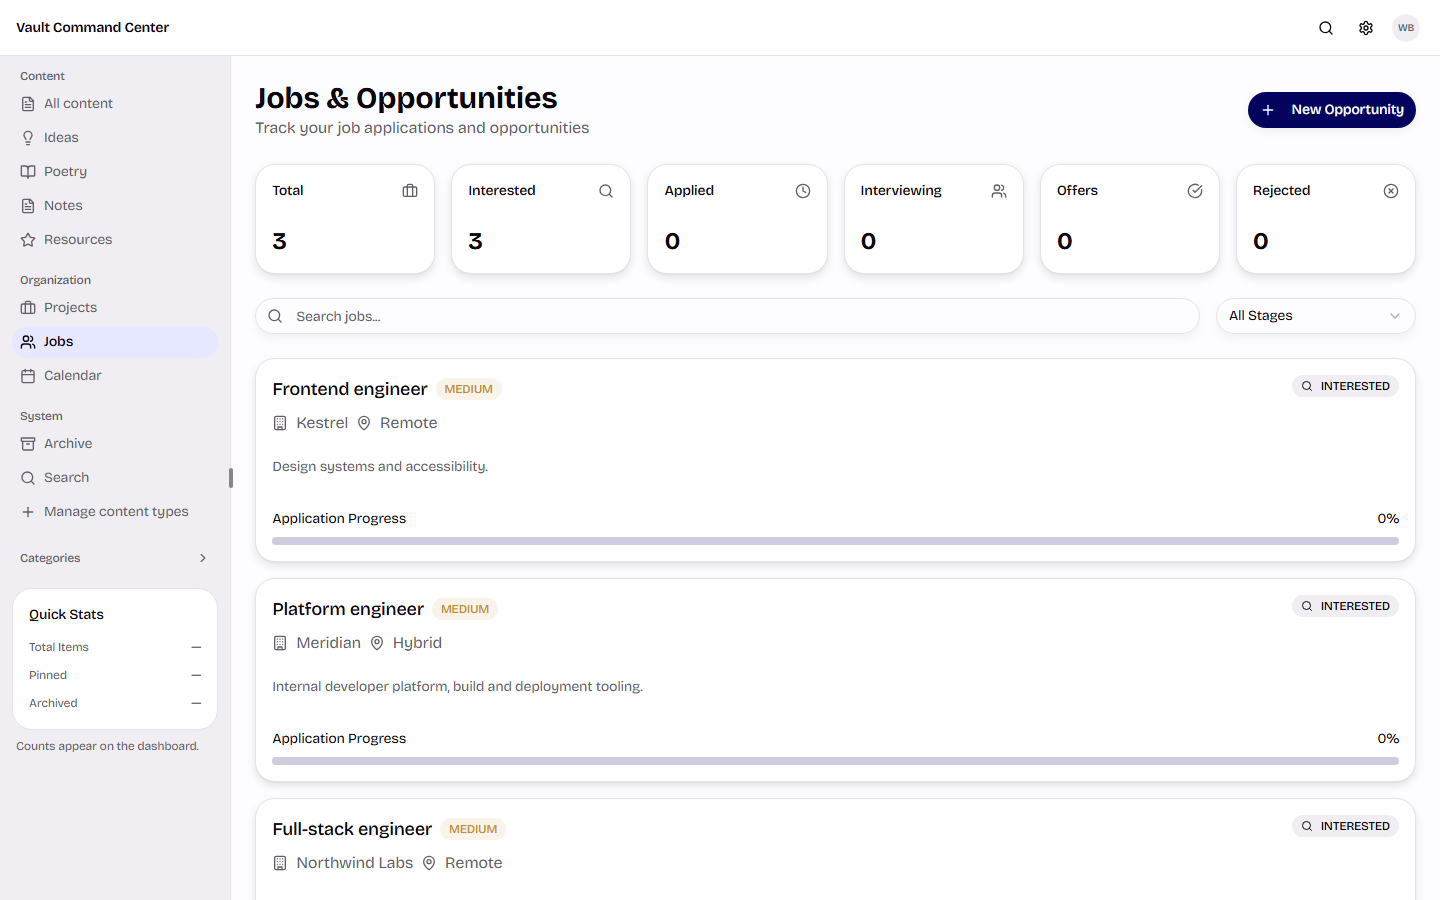
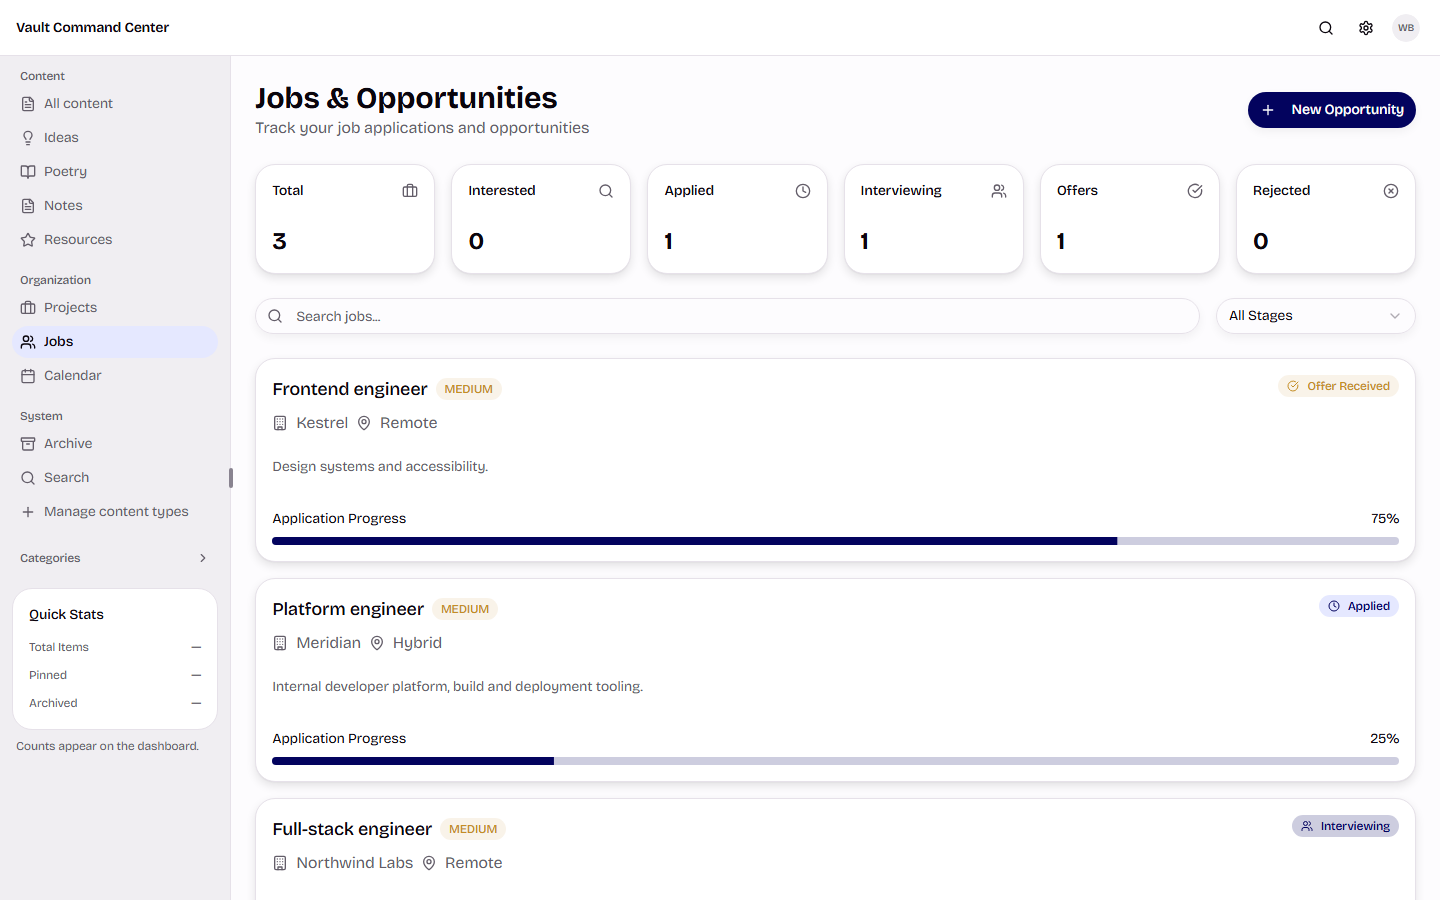
fix: read project records as text so JSON.parse receives a string

diff --git a/src/__tests__/lib/projects-adapter-listing.test.ts b/src/__tests__/lib/projects-adapter-listing.test.ts
@@ -33,7 +33,8 @@ interface MockFile {
   name: string
   mimeType: string
   parentId: string | null
-  body?: string
+  /** What `files.get` hands back: a raw body string, or an already-parsed object. */
+  body?: unknown
   properties?: Record<string, string>
 }
 
@@ -80,7 +81,7 @@ function addFolder(folder: Omit<MockFolder, 'mimeType'>): MockFolder {
   return entry
 }
 
-function addFlatProject(id: string, body: string, properties?: Record<string, string>): MockFile {
+function addFlatProject(id: string, body: unknown, properties?: Record<string, string>): MockFile {
   const file: MockFile = {
     id,
     name: 'project.json',
@@ -148,7 +149,7 @@ function listResult(params: Params): { data: { files: Array<Record<string, unkno
   return { data: { files: entries.map((entry) => ({ id: entry.id, name: entry.name, mimeType: entry.mimeType })) } }
 }
 
-function getResult(params: Params): { data: string } {
+function getResult(params: Params): { data: unknown } {
   const file = files.find((candidate) => candidate.id === params.fileId)
   if (!file || file.body === undefined) {
     throw new Error(JSON.stringify({ error: { code: 404, message: `File not found: ${params.fileId}` } }))
@@ -353,5 +354,97 @@ describe('getProject and updateProject resolve the record inside the project fol
   it('answers null for an id nothing carries', async () => {
     const adapter = await warmAdapter()
     expect(await adapter.getProject('proj_missing')).toBeNull()
+  })
+})
+
+/**
+ * The bug this pins: the Drive client parses an `application/json` media response for you, so
+ * `files.get({ alt: 'media' })` handed `listProjects` an OBJECT and `JSON.parse(object)` threw
+ * `SyntaxError: "[object Object]" is not valid JSON` for every record - `GET /api/projects` kept
+ * answering `[]`. Every media read now asks for text, and the parser accepts either shape.
+ */
+describe('project.json media reads survive both body shapes', () => {
+  /** The options argument of every `files.get` call. */
+  function getOptions(): Array<Record<string, unknown> | undefined> {
+    return mockDrive.files.get.mock.calls.map(
+      (call) => call[1] as Record<string, unknown> | undefined
+    )
+  }
+
+  it('parses a record returned as a JSON string, and asks for text on every read', async () => {
+    addFlatProject('string-project', JSON.stringify(sampleProject('proj_string', 'String body')))
+
+    const adapter = await warmAdapter()
+    const projects = await adapter.listProjects()
+
+    expect(projects.map((project) => project.title)).toEqual(['String body'])
+    expect(consoleError).not.toHaveBeenCalled()
+
+    // The read that fixes the bug: `alt: 'media'` AND `responseType: 'text'`.
+    expect(mockDrive.files.get).toHaveBeenCalledTimes(1)
+    expect(mockDrive.files.get.mock.calls[0][0]).toMatchObject({
+      fileId: 'string-project',
+      alt: 'media',
+    })
+    expect(getOptions()[0]).toMatchObject({ responseType: 'text' })
+  })
+
+  it('lists a record the client already parsed into an object instead of throwing', async () => {
+    // A client that ignores `responseType: 'text'` hands the object straight back.
+    addFlatProject('object-project', sampleProject('proj_object', 'Object body'))
+
+    const adapter = await warmAdapter()
+    const projects = await adapter.listProjects()
+
+    expect(projects.map((project) => project.title)).toEqual(['Object body'])
+    expect(consoleError).not.toHaveBeenCalled()
+  })
+
+  it('skips a malformed or non-object body, logs it, and still returns the readable records', async () => {
+    addFlatProject('string-project', JSON.stringify(sampleProject('proj_a', 'Readable string')))
+    addFlatProject('object-project', sampleProject('proj_b', 'Readable object'))
+    addFlatProject('broken-json', '{ this is not json')
+    addFlatProject('scalar-json', '42')
+    addFlatProject('array-json', '[{"id":"proj_x"}]')
+
+    const adapter = await warmAdapter()
+    const projects = await adapter.listProjects()
+
+    expect(projects.map((project) => project.title).sort()).toEqual([
+      'Readable object',
+      'Readable string',
+    ])
+
+    for (const fileId of ['broken-json', 'scalar-json', 'array-json']) {
+      expect(consoleError).toHaveBeenCalledWith(
+        expect.stringContaining(`Skipping unreadable project ${fileId}`),
+        expect.anything()
+      )
+    }
+  })
+
+  it('applies the same text read to getProject and updateProject', async () => {
+    addFlatProject('flat-project', JSON.stringify(sampleProject('proj_flat', 'Flat project')), {
+      projectId: 'proj_flat',
+    })
+
+    const adapter = await warmAdapter()
+    expect((await adapter.getProject('proj_flat'))?.title).toBe('Flat project')
+
+    const updated = await adapter.updateProject('proj_flat', { title: 'Flat project, revised' })
+    expect(updated.title).toBe('Flat project, revised')
+
+    expect(mockDrive.files.get.mock.calls.length).toBeGreaterThanOrEqual(2)
+    expect(mockDrive.files.get.mock.calls.every((call) => call[0].alt === 'media')).toBe(true)
+    expect(
+      getOptions().every((options) => options?.responseType === 'text')
+    ).toBe(true)
+
+    // And the object shape works on the single-record path too.
+    files.find((file) => file.id === 'flat-project')!.body = sampleProject(
+      'proj_flat',
+      'Object record'
+    )
+    expect((await adapter.getProject('proj_flat'))?.title).toBe('Object record')
   })
 })

diff --git a/src/lib/google-drive-projects-adapter.ts b/src/lib/google-drive-projects-adapter.ts
@@ -32,6 +32,34 @@ function escapeQueryValue(value: string): string {
   return value.replace(/\\/g, '\\\\').replace(/'/g, "\\'")
 }
 
+/** A `project.json` body is a JSON object; arrays and primitives are not records. */
+function isProjectRecord(value: unknown): value is Project {
+  return typeof value === 'object' && value !== null && !Array.isArray(value)
+}
+
+/**
+ * Parse a `project.json` body into a project, or `null` when it cannot be one.
+ *
+ * Media reads ask for `responseType: 'text'`, so the body normally arrives as a string. A client
+ * version that ignores the option may hand back an already-parsed object, which `JSON.parse`
+ * would coerce to `"[object Object]"` and throw on - both shapes are therefore accepted here.
+ * Malformed JSON, arrays and primitives are `null`, so one bad record can be skipped instead of
+ * failing the whole collection.
+ */
+function parseProjectRecord(body: unknown): Project | null {
+  if (typeof body === 'string') {
+    let parsed: unknown
+    try {
+      parsed = JSON.parse(body)
+    } catch {
+      return null
+    }
+    return isProjectRecord(parsed) ? parsed : null
+  }
+
+  return isProjectRecord(body) ? body : null
+}
+
 export class GoogleDriveProjectsAdapter {
   private drive: any
   private projectsFolderId: string = ''
@@ -70,6 +98,21 @@ export class GoogleDriveProjectsAdapter {
   }
 
   /**
+   * Read one `project.json` body.
+   *
+   * `responseType: 'text'` keeps the body a string so `JSON.parse` never receives the object the
+   * client would otherwise hand back for an `application/json` response.
+   */
+  private async readProjectRecord(fileId: string): Promise<Project | null> {
+    const content = await this.drive.files.get(
+      { fileId, alt: 'media' },
+      { responseType: 'text' }
+    )
+
+    return parseProjectRecord(content.data)
+  }
+
+  /**
    * `createProject` writes one FOLDER per project and puts `project.json` INSIDE it, while Drive's
    * `files.list` is not recursive: "project.json in Projects" only ever matched a record sitting
    * directly in `Vault/Projects`. The listing therefore walks the one level that exists, in waves
@@ -89,11 +132,15 @@ export class GoogleDriveProjectsAdapter {
       const projects = await Promise.all(
         records.map(async (record) => {
           try {
-            const content = await this.drive.files.get({
-              fileId: record.fileId,
-              alt: 'media',
-            })
-            return JSON.parse(content.data) as Project
+            const project = await this.readProjectRecord(record.fileId)
+            if (!project) {
+              console.error(
+                `Skipping unreadable project ${record.fileId}:`,
+                new Error('project.json body is not a JSON object')
+              )
+              return null
+            }
+            return project
           } catch (error) {
             console.error(`Skipping unreadable project ${record.fileId}:`, error)
             return null
@@ -209,12 +256,12 @@ export class GoogleDriveProjectsAdapter {
         return null
       }
 
-      const content = await this.drive.files.get({
-        fileId: record.fileId,
-        alt: 'media',
-      })
+      const project = await this.readProjectRecord(record.fileId)
+      if (!project) {
+        throw new Error(`Project record is not a JSON object: ${record.fileId}`)
+      }
 
-      return JSON.parse(content.data)
+      return project
     } catch (error) {
       console.error('Error getting project:', error)
       throw error
